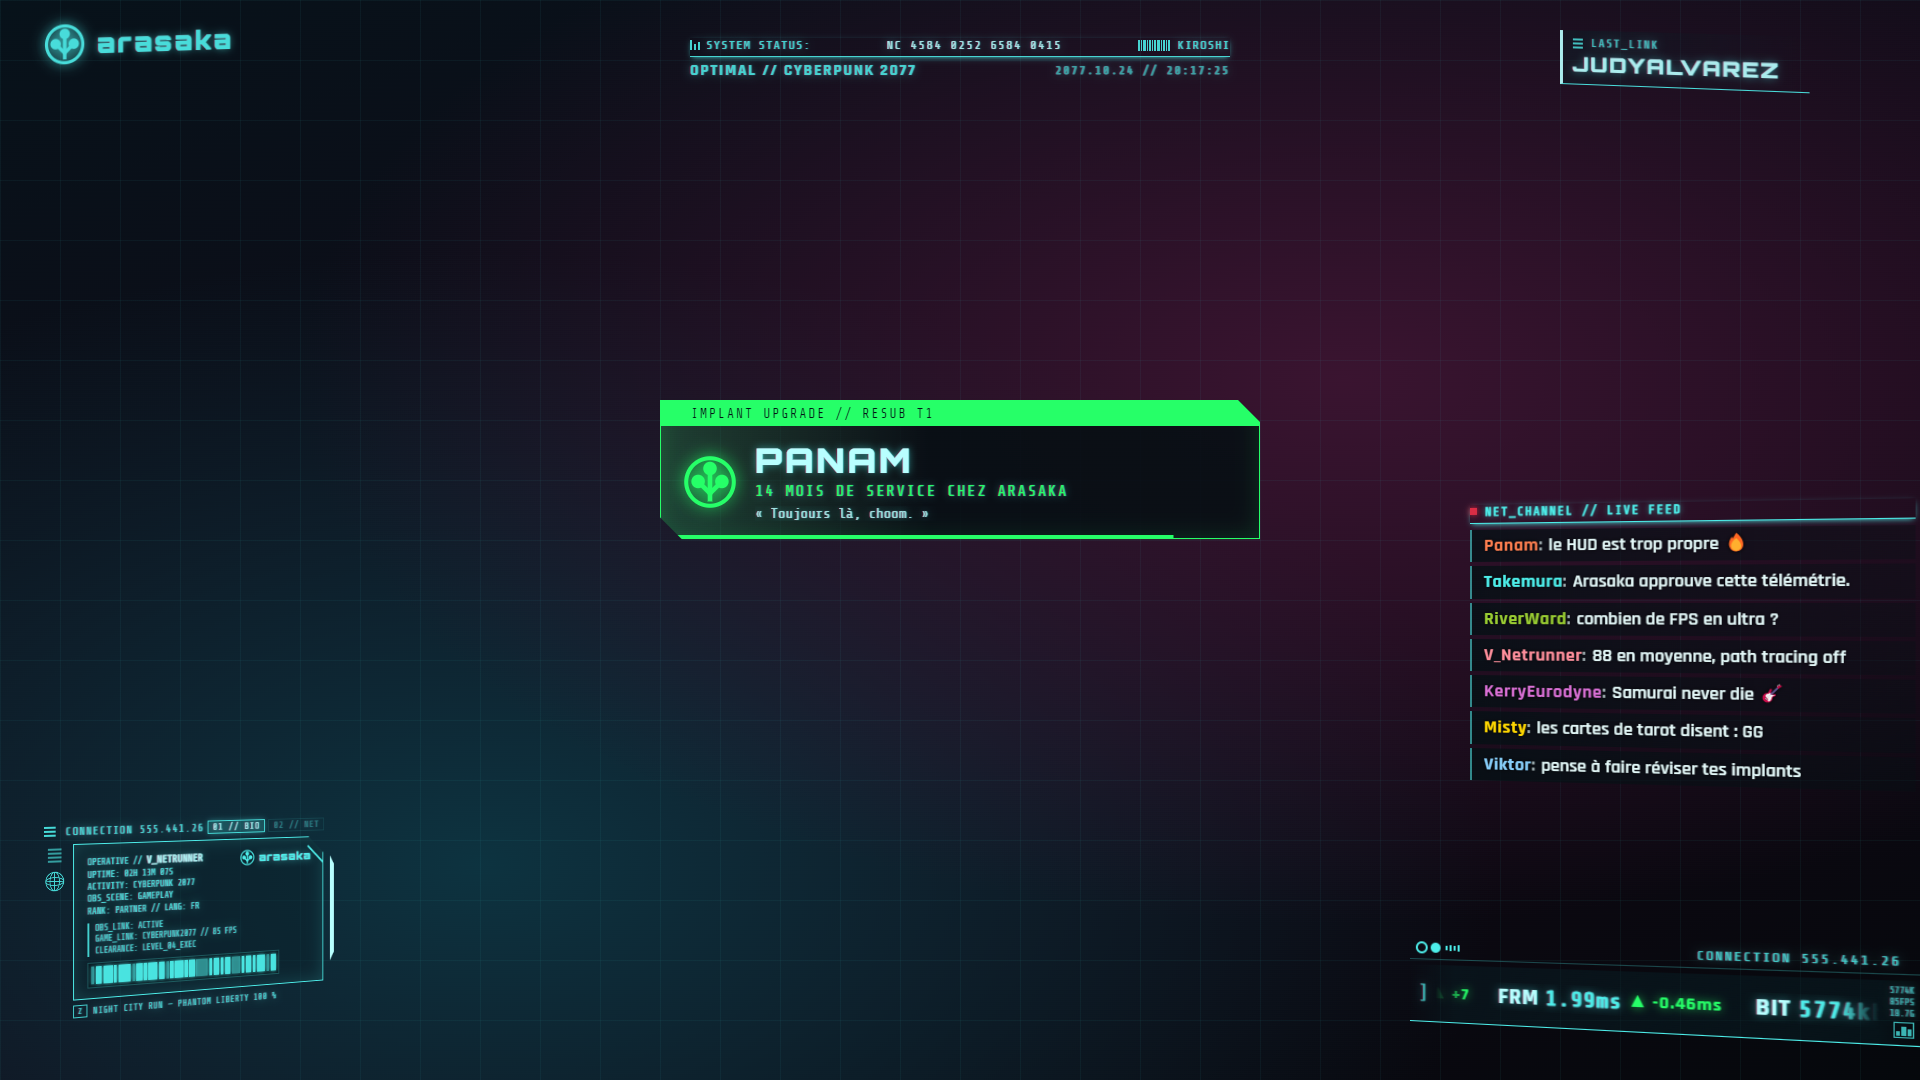
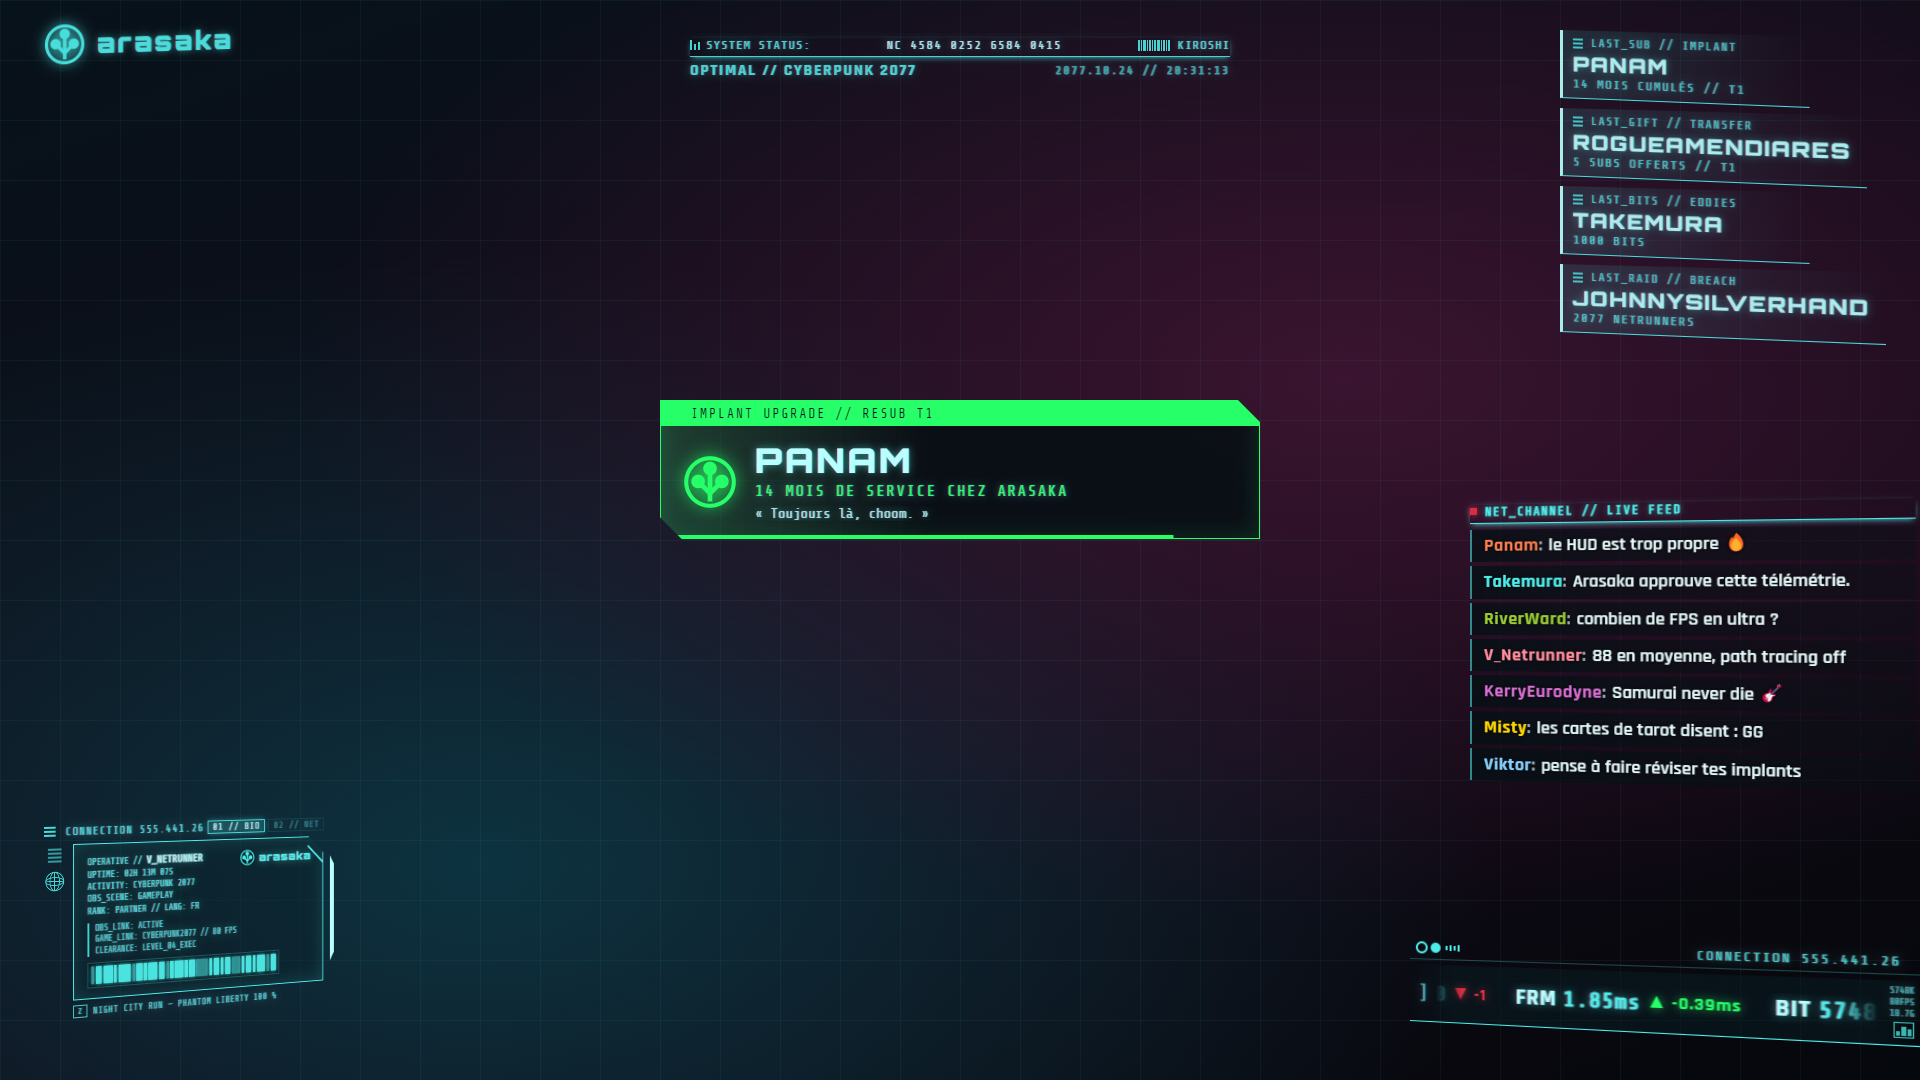
Widgets dernier sub, subs offerts, bits et raid ; dernier follower désactivé par défaut
- Nouveaux widgets de l'overlay : dernier sub (mois cumulés et palier),
  derniers subs offerts (qui et combien), derniers bits (nombre) et dernier raid
  (viewers). Un composant LastEvent commun remplace LastFollower.
- RecentEvents mémorise ces événements EventSub sur disque (recent-events.json)
  pour les retrouver au redémarrage, et les oublie quand la chaîne change.
- Le dernier follower est désactivé par défaut.
- Corrige le fond des widgets (variable CSS --hud-primary-bg inexistante).
- Captures du README mises à jour.

Changed region(s): [[0.8125, 0.0306, 0.9688, 0.3361], [0.75, 0.9167, 0.9688, 0.9472]]

diff --git a/server/createHudServer.js b/server/createHudServer.js
@@ -8,6 +8,7 @@ import { SystemSource } from './telemetry/system/SystemSource.js';
 import { FrameRateSource } from './telemetry/system/FrameRateSource.js';
 import { TwitchAuth } from './telemetry/twitch/TwitchAuth.js';
 import { TwitchSource } from './telemetry/twitch/TwitchSource.js';
+import { RecentEvents } from './telemetry/twitch/RecentEvents.js';
 import { ChatSource } from './chat/ChatSource.js';
 import { JsonCache } from './cache/JsonCache.js';
 import { MediaCache } from './cache/MediaCache.js';
@@ -34,7 +35,12 @@ export function createHudServer({ dataDir, clientDir, onRestartRequest = null })
     const obsSource = new ObsSource(telemetry);
     const systemSource = new SystemSource(telemetry);
     const frameRateSource = new FrameRateSource(telemetry);
-    const twitchSource = new TwitchSource(telemetry, twitchAuth, alert => emitAlert(alert));
+    const recentEvents = new RecentEvents(path.join(dataDir, 'recent-events.json'), telemetry);
+    // Les vrais événements mettent à jour les widgets « dernier… », même si leur alerte est désactivée.
+    const twitchSource = new TwitchSource(telemetry, twitchAuth, alert => {
+        recentEvents.record(alert);
+        emitAlert(alert);
+    });
     // Surtout pas « cache » : sous Windows (insensible à la casse) ce serait le dossier
     // « Cache » de Chromium dans le profil Electron, qu'il vide à sa guise.
     const cacheDir = path.join(dataDir, 'hud-cache');
@@ -89,6 +95,7 @@ export function createHudServer({ dataDir, clientDir, onRestartRequest = null })
         frameRateSource.configure(config.system);
         twitchAuth.setClient(config.twitch.clientId.trim(), config.twitch.clientSecret.trim());
         twitchSource.configure(config.twitch);
+        recentEvents.setChannel(config.twitch.channel);
         chatSource.configure(config.chat, config.twitch.channel);
     }
 

diff --git a/server/telemetry/twitch/RecentEvents.js b/server/telemetry/twitch/RecentEvents.js
@@ -1,0 +1,52 @@
+import { readJsonFile, writeJsonFile } from '../../utils/jsonFile.js';
+
+const EMPTY = { sub: null, giftsub: null, cheer: null, raid: null };
+
+/**
+ * Derniers sub, subs offerts, cheer et raid reçus en direct (EventSub). Twitch ne permet
+ * pas de les relire après coup : ils sont gardés sur disque pour survivre à un redémarrage,
+ * et oubliés quand la chaîne suivie change.
+ */
+export class RecentEvents {
+    #filePath;
+    #state;
+    #channel = null;
+
+    constructor(filePath, state) {
+        this.#filePath = filePath;
+        this.#state = state;
+        const saved = readJsonFile(filePath, null);
+        if (saved?.channel) {
+            this.#channel = saved.channel;
+            state.recent = { ...EMPTY, ...saved.events };
+        }
+    }
+
+    setChannel(channel) {
+        const login = channel.trim().toLowerCase();
+        if (login === this.#channel) return;
+        this.#channel = login;
+        this.#state.recent = { ...EMPTY };
+        this.#save();
+        this.#state.commit();
+    }
+
+    record(alert) {
+        const at = Date.now();
+        const event = {
+            sub: () => ({ name: alert.user, months: alert.months, tier: alert.tier, at }),
+            giftsub: () => ({ name: alert.user, count: alert.count, tier: alert.tier, at }),
+            cheer: () => ({ name: alert.user, bits: alert.bits, at }),
+            raid: () => ({ name: alert.user, viewers: alert.viewers, at })
+        }[alert.kind]?.();
+        if (!event) return;
+
+        this.#state.recent = { ...this.#state.recent, [alert.kind]: event };
+        this.#save();
+        this.#state.commit();
+    }
+
+    #save() {
+        writeJsonFile(this.#filePath, { channel: this.#channel, events: this.#state.recent });
+    }
+}

diff --git a/src/client/components/overlay/lastEvents.js b/src/client/components/overlay/lastEvents.js
@@ -1,0 +1,40 @@
+// Widgets « dernier… » de l'overlay. `read` extrait l'événement de la télémétrie
+// et le met en forme ({ name, detail }), ou retourne null s'il n'y en a pas encore.
+const plural = (count, singular, pluralForm = `${singular}S`) => `${count} ${count > 1 ? pluralForm : singular}`;
+const anonymous = name => name || 'ANONYME';
+
+const format = (event, describe) => (event ? describe(event) : null);
+
+export const LAST_EVENTS = [
+    {
+        id: 'lastSub',
+        label: 'LAST_SUB // IMPLANT',
+        read: s => format(s.lastSub, e => ({
+            name: e.name,
+            detail: `${plural(e.months ?? 1, 'MOIS', 'MOIS')} CUMULÉ${e.months > 1 ? 'S' : ''} // T${e.tier ?? 1}`
+        }))
+    },
+    {
+        id: 'lastGiftSub',
+        label: 'LAST_GIFT // TRANSFER',
+        read: s => format(s.lastGiftSub, e => ({
+            name: anonymous(e.name),
+            detail: `${plural(e.count ?? 1, 'SUB OFFERT', 'SUBS OFFERTS')} // T${e.tier ?? 1}`
+        }))
+    },
+    {
+        id: 'lastCheer',
+        label: 'LAST_BITS // EDDIES',
+        read: s => format(s.lastCheer, e => ({ name: anonymous(e.name), detail: plural(e.bits, 'BIT') }))
+    },
+    {
+        id: 'lastRaid',
+        label: 'LAST_RAID // BREACH',
+        read: s => format(s.lastRaid, e => ({ name: e.name, detail: plural(e.viewers ?? 0, 'NETRUNNER') }))
+    },
+    {
+        id: 'lastFollower',
+        label: 'LAST_FOLLOW // LINK',
+        read: s => format(s.lastFollower, e => ({ name: e.name, detail: null }))
+    }
+];

diff --git a/src/client/components/overlay/LastEvent.css b/src/client/components/overlay/LastEvent.css
@@ -1,17 +1,17 @@
-.last-follower {
+.last-event {
     min-width: 240px;
     padding: 6px 14px 7px 10px;
     border-left: 3px solid var(--hud-highlight);
     border-bottom: 1px solid var(--hud-primary);
-    background: linear-gradient(90deg, var(--hud-primary-bg), transparent);
+    background: linear-gradient(90deg, rgba(var(--hud-primary-rgb), 0.14), transparent);
     opacity: 0.92;
 }
 
-.last-follower.is-placeholder {
+.last-event.is-placeholder {
     opacity: 0.5;
 }
 
-.last-follower__label {
+.last-event__label {
     display: flex;
     align-items: center;
     gap: 8px;
@@ -21,17 +21,27 @@
     opacity: 0.85;
 }
 
-.last-follower__name {
+.last-event__body {
+    animation: last-event-in 0.4s ease-out;
+}
+
+.last-event__name {
     margin-top: 2px;
     font-family: var(--font-display);
     font-weight: 800;
     font-size: 20px;
     letter-spacing: 2px;
     color: var(--hud-highlight);
-    animation: last-follower-in 0.4s ease-out;
 }
 
-@keyframes last-follower-in {
+.last-event__detail {
+    font-family: var(--font-mono);
+    font-size: 12px;
+    letter-spacing: 1.5px;
+    opacity: 0.85;
+}
+
+@keyframes last-event-in {
     from { opacity: 0; transform: translateX(-10px); }
     to { opacity: 1; transform: none; }
 }

diff --git a/src/client/components/overlay/Overlay.jsx b/src/client/components/overlay/Overlay.jsx
@@ -4,7 +4,8 @@ import TopLeftBrand from './TopLeftBrand.jsx';
 import TopCenterTelemetry from './TopCenterTelemetry.jsx';
 import StreamerCard from './StreamerCard.jsx';
 import StockTicker from './StockTicker.jsx';
-import LastFollower from './LastFollower.jsx';
+import LastEvent from './LastEvent.jsx';
+import { LAST_EVENTS } from './lastEvents.js';
 import AlertBanner from './AlertBanner.jsx';
 import ChatBox from './ChatBox.jsx';
 import './Overlay.css';
@@ -36,9 +37,11 @@ export default function Overlay({ config, telemetry, alerts = [], chat = [], edi
                 <StockTicker hud={hud} telemetry={telemetry} />
             </Widget>
 
-            <Widget {...widgetProps('lastFollower')}>
-                <LastFollower follower={telemetry.streamer.lastFollower} showPlaceholder={editable} />
-            </Widget>
+            {LAST_EVENTS.map(({ id, label, read }) => (
+                <Widget key={id} {...widgetProps(id)}>
+                    <LastEvent label={label} event={read(telemetry.streamer)} showPlaceholder={editable} />
+                </Widget>
+            ))}
 
             {config.chat.enabled && (
                 <Widget {...widgetProps('chatBox')}>

diff --git a/src/client/components/overlay/LastEvent.jsx b/src/client/components/overlay/LastEvent.jsx
@@ -1,0 +1,23 @@
+import { upper } from '../../lib/format.js';
+import StackedLines from './StackedLines.jsx';
+import './LastEvent.css';
+
+// Dernier événement de la chaîne (sub, bits, raid…). Rien n'est affiché sans donnée réelle,
+// sauf en mode édition où un gabarit permet de placer le widget.
+export default function LastEvent({ label, event, showPlaceholder }) {
+    if (!event && !showPlaceholder) return null;
+
+    return (
+        <div className={`last-event${event ? '' : ' is-placeholder'}`}>
+            <div className="last-event__label">
+                <StackedLines count={3} width={10} />
+                <span>{label}</span>
+            </div>
+            {/* La clé relance l'animation d'entrée à chaque nouvel événement. */}
+            <div key={`${event?.name}|${event?.detail}`} className="last-event__body">
+                <div className="last-event__name">{event ? upper(event.name, 22) : 'EN ATTENTE'}</div>
+                {event?.detail && <div className="last-event__detail">{event.detail}</div>}
+            </div>
+        </div>
+    );
+}

diff --git a/server/telemetry/TelemetryState.js b/server/telemetry/TelemetryState.js
@@ -23,6 +23,8 @@ export class TelemetryState extends EventEmitter {
         eventSub: null
     };
     chat = { connected: false, error: null };
+    // Derniers événements de la chaîne reçus en direct (voir RecentEvents).
+    recent = { sub: null, giftsub: null, cheer: null, raid: null };
     // Mesure des FPS du jeu. status : 'off' | 'waiting' | 'running' | 'error'
     fps = { status: 'off', error: null, process: null, detail: null };
     metrics = {};
@@ -89,6 +91,10 @@ export class TelemetryState extends EventEmitter {
                 broadcasterType: this.twitch.broadcasterType,
                 isLive: this.twitch.isLive,
                 lastFollower: this.twitch.lastFollower,
+                lastSub: this.recent.sub,
+                lastGiftSub: this.recent.giftsub,
+                lastCheer: this.recent.cheer,
+                lastRaid: this.recent.raid,
                 scene: this.obs.scene,
                 uptimeSeconds: this.obs.uptimeSeconds ?? twitchUptime
             },

diff --git a/server/config/defaults.js b/server/config/defaults.js
@@ -72,7 +72,11 @@ export const defaultConfig = {
         topCenterTelemetry: { enabled: true, x: 690, y: 38, scale: 1, tilt: 0 },
         bottomLeftModule: { enabled: true, x: 44, y: 825, scale: 1, tilt: 12 },
         bottomRightTicker: { enabled: true, x: 1410, y: 940, scale: 1, tilt: -12 },
-        lastFollower: { enabled: true, x: 1560, y: 30, scale: 1, tilt: -8 },
+        lastSub: { enabled: true, x: 1560, y: 30, scale: 1, tilt: -8 },
+        lastGiftSub: { enabled: true, x: 1560, y: 108, scale: 1, tilt: -8 },
+        lastCheer: { enabled: true, x: 1560, y: 186, scale: 1, tilt: -8 },
+        lastRaid: { enabled: true, x: 1560, y: 264, scale: 1, tilt: -8 },
+        lastFollower: { enabled: false, x: 1560, y: 342, scale: 1, tilt: -8 },
         chatBox: { enabled: true, x: 1470, y: 780, scale: 1, tilt: -6 },
         alertBanner: { enabled: true, x: 660, y: 400, scale: 1, tilt: 0 }
     }

diff --git a/src/client/components/settings/WidgetSettings.jsx b/src/client/components/settings/WidgetSettings.jsx
@@ -6,9 +6,13 @@ export const WIDGET_LABELS = {
     topCenterTelemetry: 'Barre de statut (haut centre)',
     bottomLeftModule: 'Carte streameur (bas gauche)',
     bottomRightTicker: 'Ticker boursier (bas droite)',
+    lastSub: 'Dernier sub (mois cumulés)',
+    lastGiftSub: 'Derniers subs offerts',
+    lastCheer: 'Derniers bits',
+    lastRaid: 'Dernier raid',
     lastFollower: 'Dernier follower',
     chatBox: 'Tchat',
-    alertBanner: 'Alertes follow / raid'
+    alertBanner: 'Alertes'
 };
 
 export default function WidgetSettings({ values, onChange, onReset }) {

diff --git a/README.md b/README.md
@@ -11,7 +11,9 @@ Overlay OBS style Cyberpunk 2077 (Arasaka / Kiroshi) alimenté par les vraies st
 
 L'overlay tel qu'OBS l'affiche en 1920×1080 (ici sur un fond neutre, avec des données de démonstration) :
 
-![Overlay complet : marque, statut système, dernier follower, carte streameur, tchat et bandeau de télémétrie](docs/screenshots/overlay.png)
+![Overlay complet : marque, statut système, derniers sub / subs offerts / bits / raid, carte streameur, tchat et bandeau de télémétrie](docs/screenshots/overlay.png)
+
+En haut à droite, les derniers événements de la chaîne : dernier sub (mois cumulés), derniers subs offerts (qui et combien), derniers bits et dernier raid. Ils sont mémorisés entre deux lancements. Le dernier follower existe aussi, désactivé par défaut (section Disposition).
 
 | Alerte de resub | Alerte de raid |
 | --- | --- |
